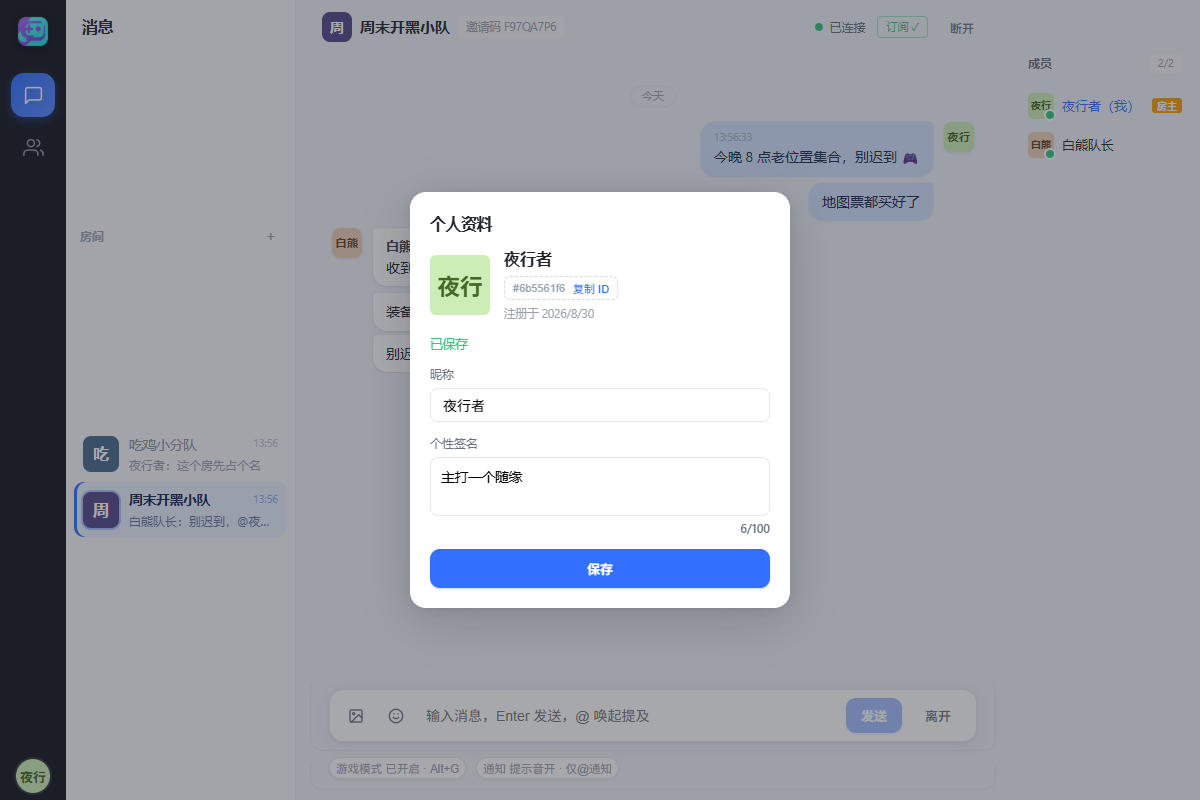
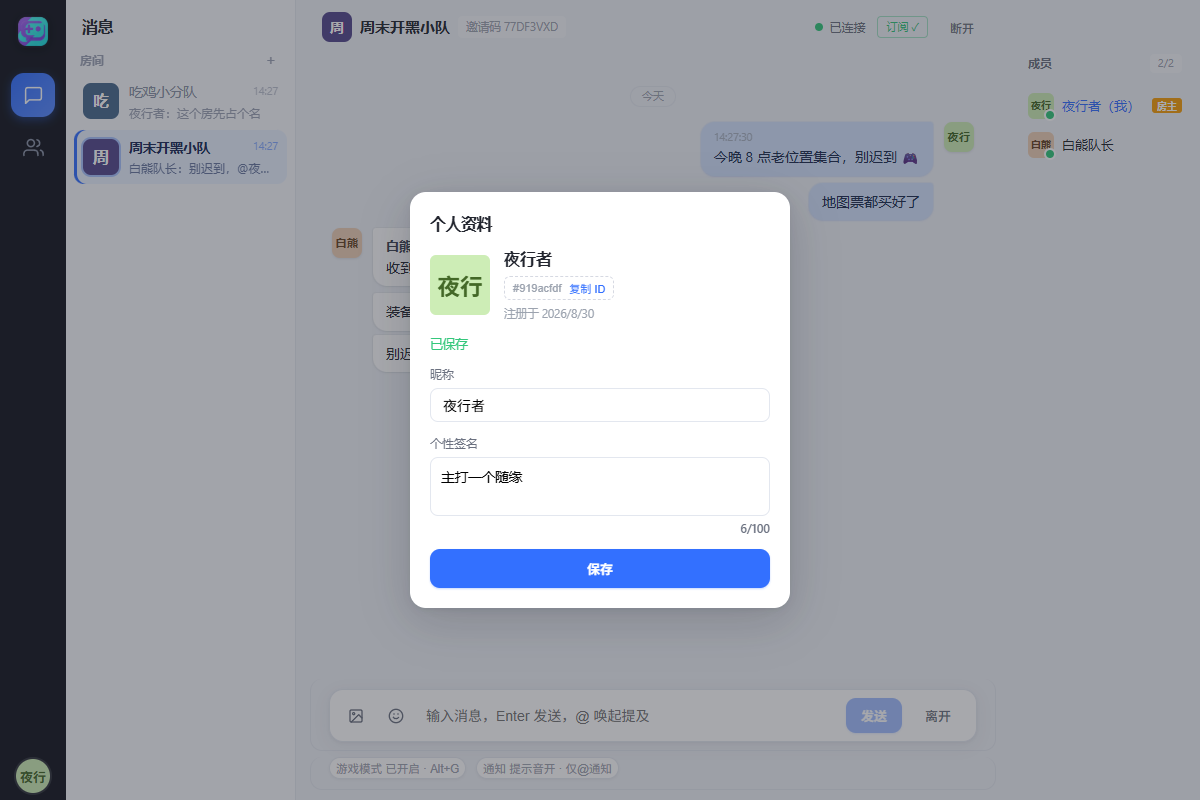
fix: session list column spacing - natural dm section, rooms fill the rest

diff --git a/client/src/App.css b/client/src/App.css
@@ -3177,8 +3177,16 @@ body {
   flex-direction: column;
 }
 
-/* 列表列内的旧 sidebar 内嵌套层适配：rooms/friends-panel 撑满 */
-.listbar-body > *,
+/* 列表列内：私聊区自然高、房间区占满剩余（粗暴的 > * flex:1 会把各区平分出大空隙） */
+.listbar-body > * {
+  flex: none;
+}
+
+.listbar-body > .rooms {
+  flex: 1;
+  overflow-y: auto;
+}
+
 .listbar .friends-panel {
   flex: 1;
   min-height: 0;
